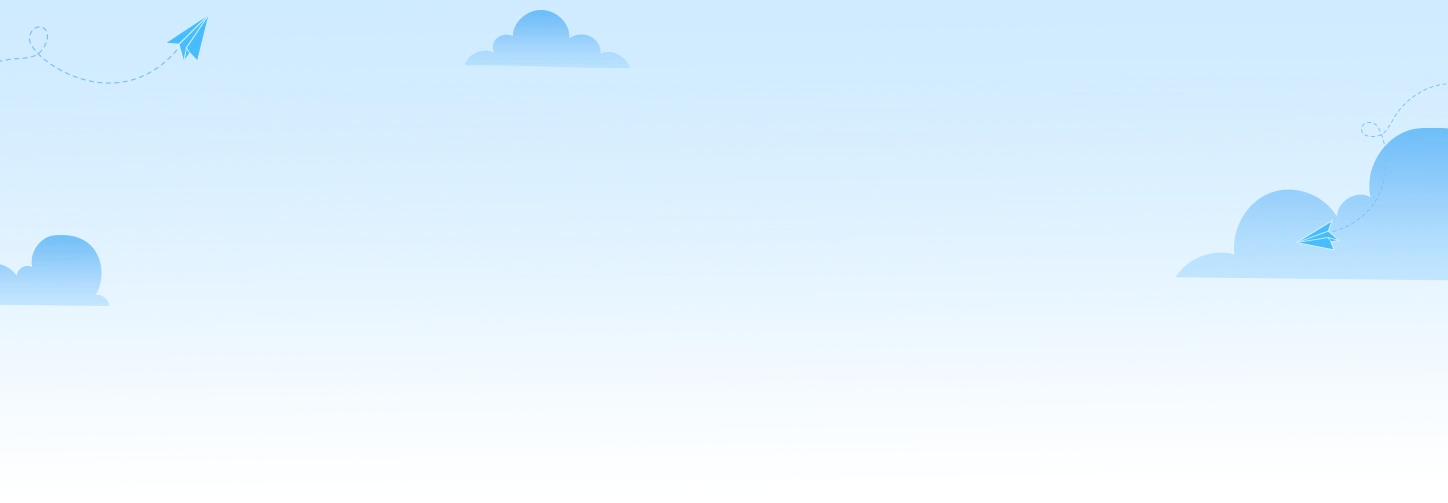
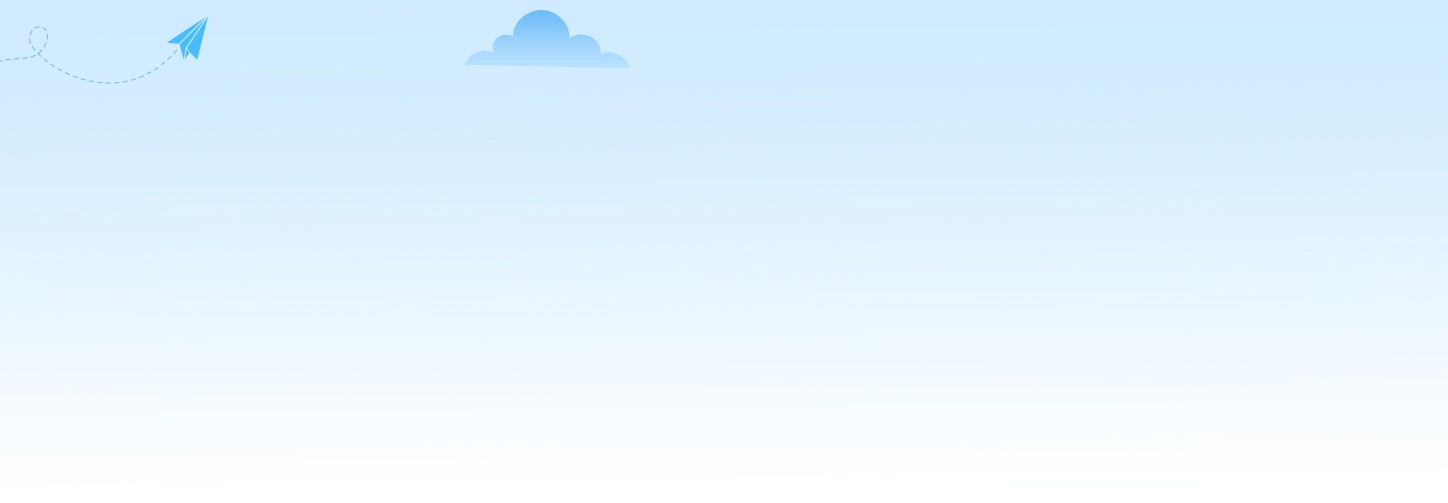
extentionNameFixed

Changed region(s): [[0.808, 0.2386, 1.0, 0.5666], [0.0, 0.4473, 0.0932, 0.6262]]

diff --git a/component/admin/components/channel/Channels.tsx b/component/admin/components/channel/Channels.tsx
@@ -62,8 +62,6 @@ const Channels = () => {
     videosLoading,
   } = useAdminChannels();
 
-  //FIXME: remove the Unpulished from main page layout and other parts like it's modal and view, and if a video get unpublished what should happen to order and display ?
-
   return (
     <>
       <Stack sx={{ gap: 3, height: "100%" }}>

diff --git a/component/appCatalogue/component/NavbarDesktop.tsx b/component/appCatalogue/component/NavbarDesktop.tsx
@@ -175,7 +175,7 @@ const NavbarDesktop = ({
           </Button>
 
           <Avatar
-            src="/userAvatar.webp"
+            src="/userAvatar.png"
             alt="avatar"
             sx={{
               cursor: "pointer",

diff --git a/component/appCatalogue/component/NavbarCapacitor.tsx b/component/appCatalogue/component/NavbarCapacitor.tsx
@@ -170,7 +170,7 @@ const NavbarCapacitor = ({
         </IconButton>
 
         <Avatar
-          src="/userAvatar.webp"
+          src="/userAvatar.png"
           alt="avatar"
           sx={{
             width: 50,

diff --git a/component/appCatalogue/component/NavbarMobile.tsx b/component/appCatalogue/component/NavbarMobile.tsx
@@ -98,7 +98,7 @@ const NavbarMobile = ({
         </IconButton>
 
         <Avatar
-          src="/userAvatar.webp"
+          src="/userAvatar.png"
           alt="avatar"
           sx={{
             width: 32,
